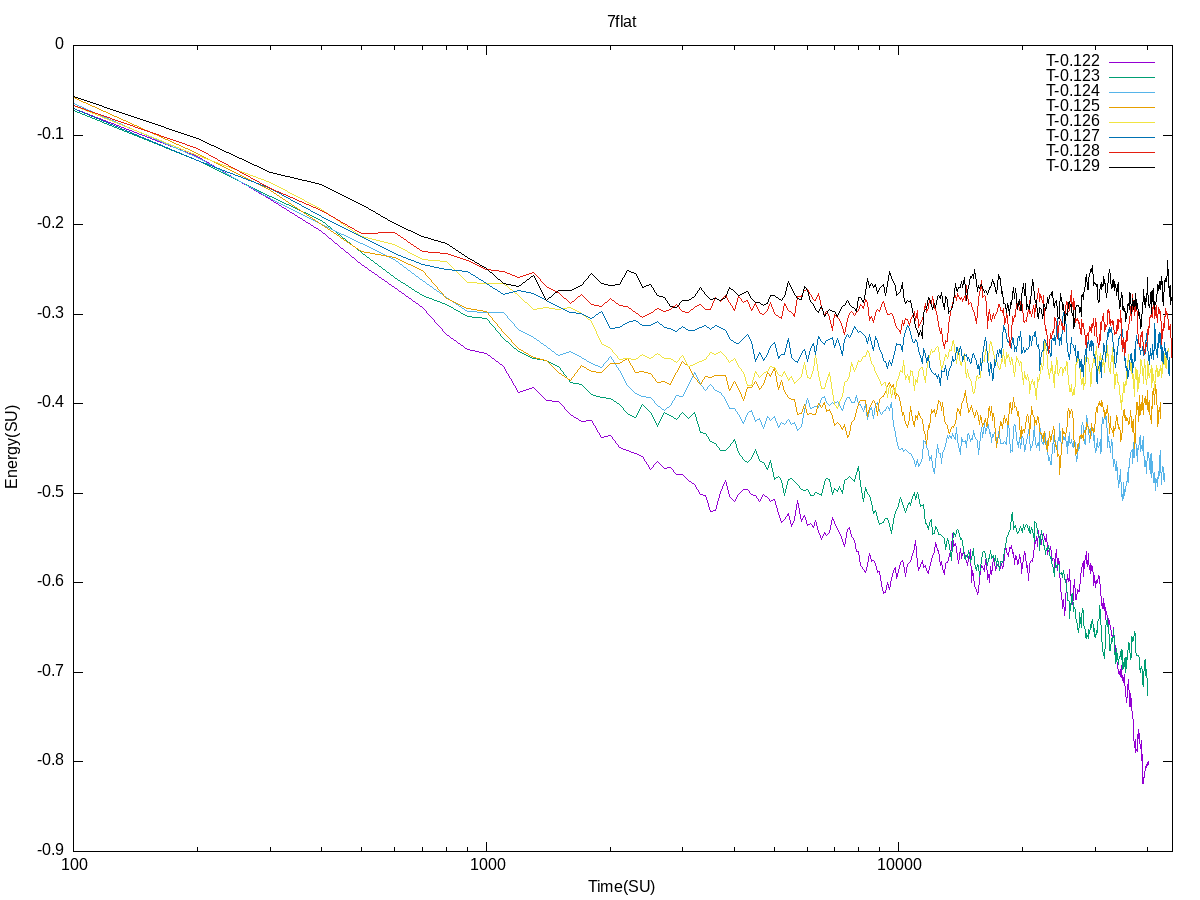
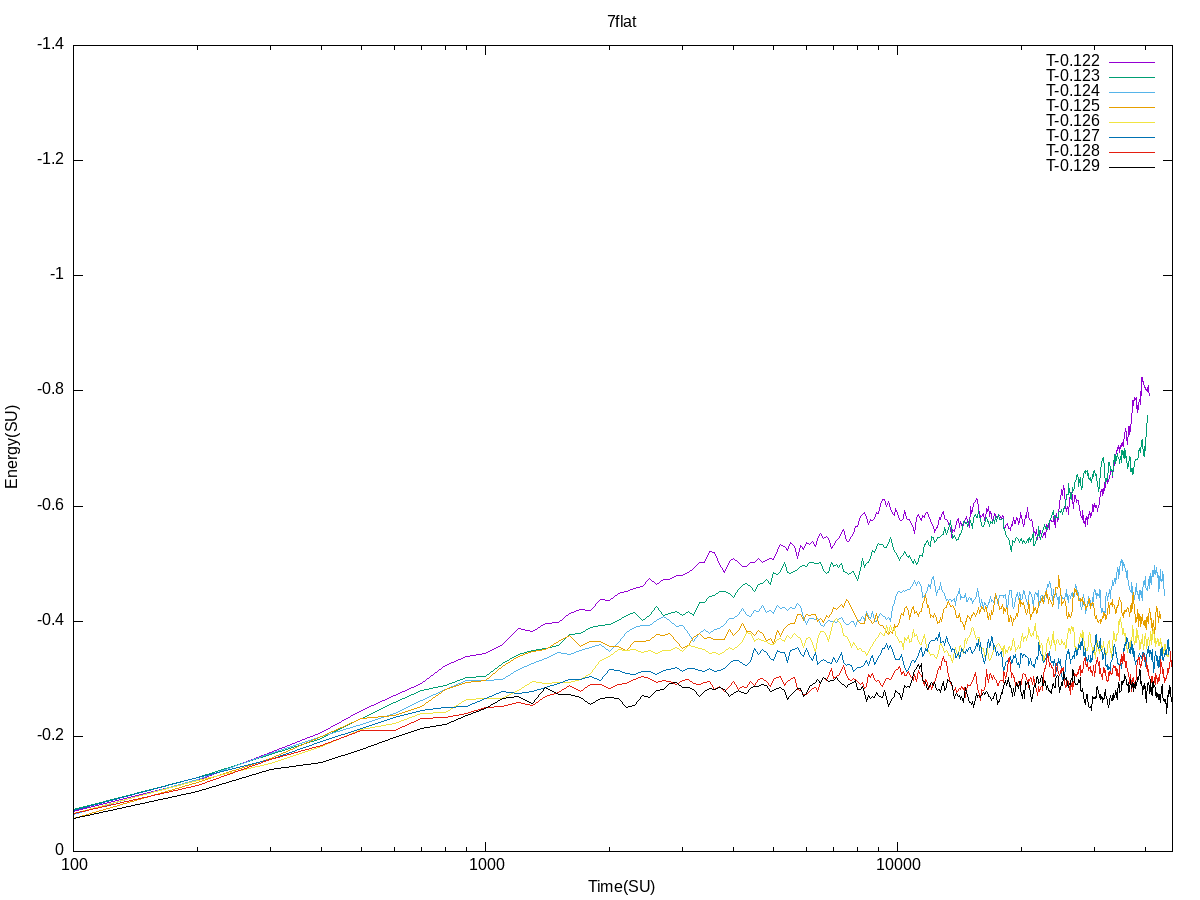
update

diff --git a/main/src/SimulationManager.cpp b/main/src/SimulationManager.cpp
@@ -134,6 +134,7 @@ using namespace std::chrono_literals;
                     commandfile<<"set term png size 1200,900\n";
                     commandfile<<"set xlabel 'Time(SU)'\n";
                     commandfile<<"set logscale x\n";
+                    commandfile<<"set yrange [0:-1.4]\n";
                     commandfile<<"set ylabel 'Energy(SU)'\n";
                     commandfile<<"set title '"+projectName[p]+"'\n";
                     commandfile<<"set output './plots/"+projectName[p]+"-r"+to_string(j+1)+".png'\n";
